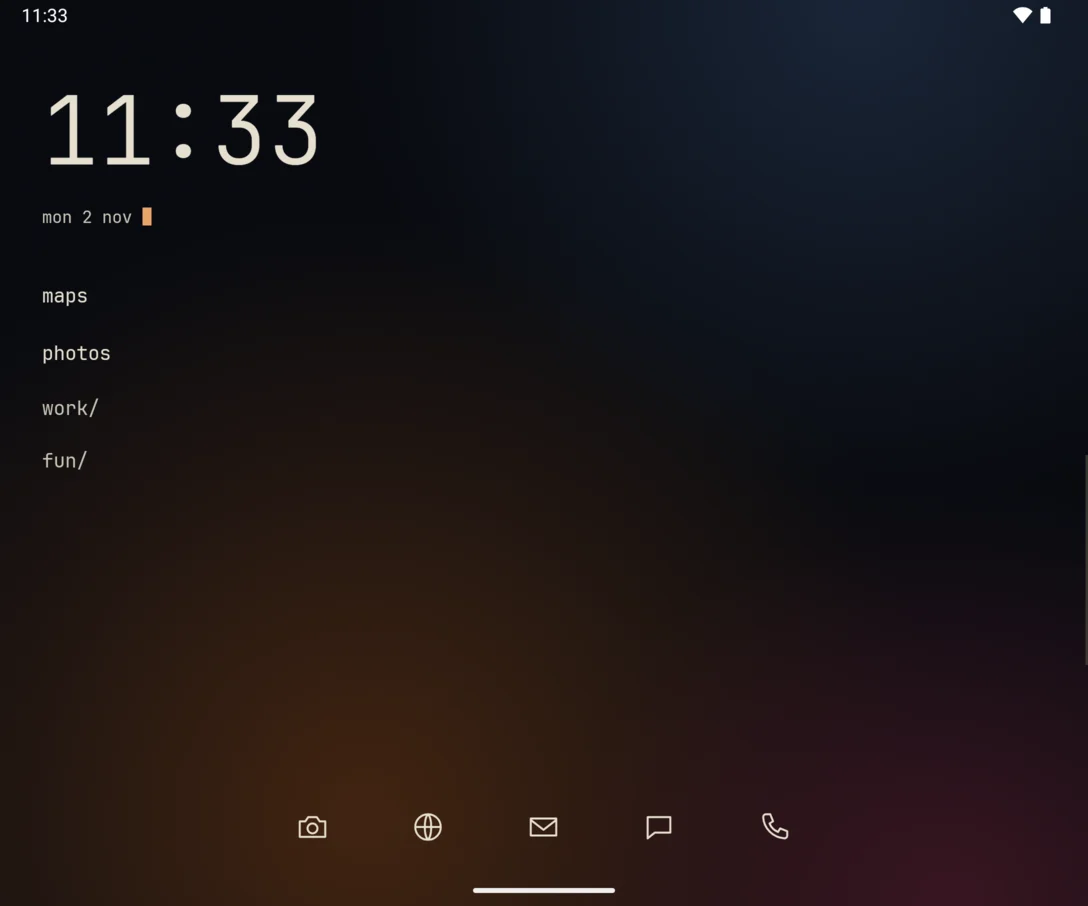
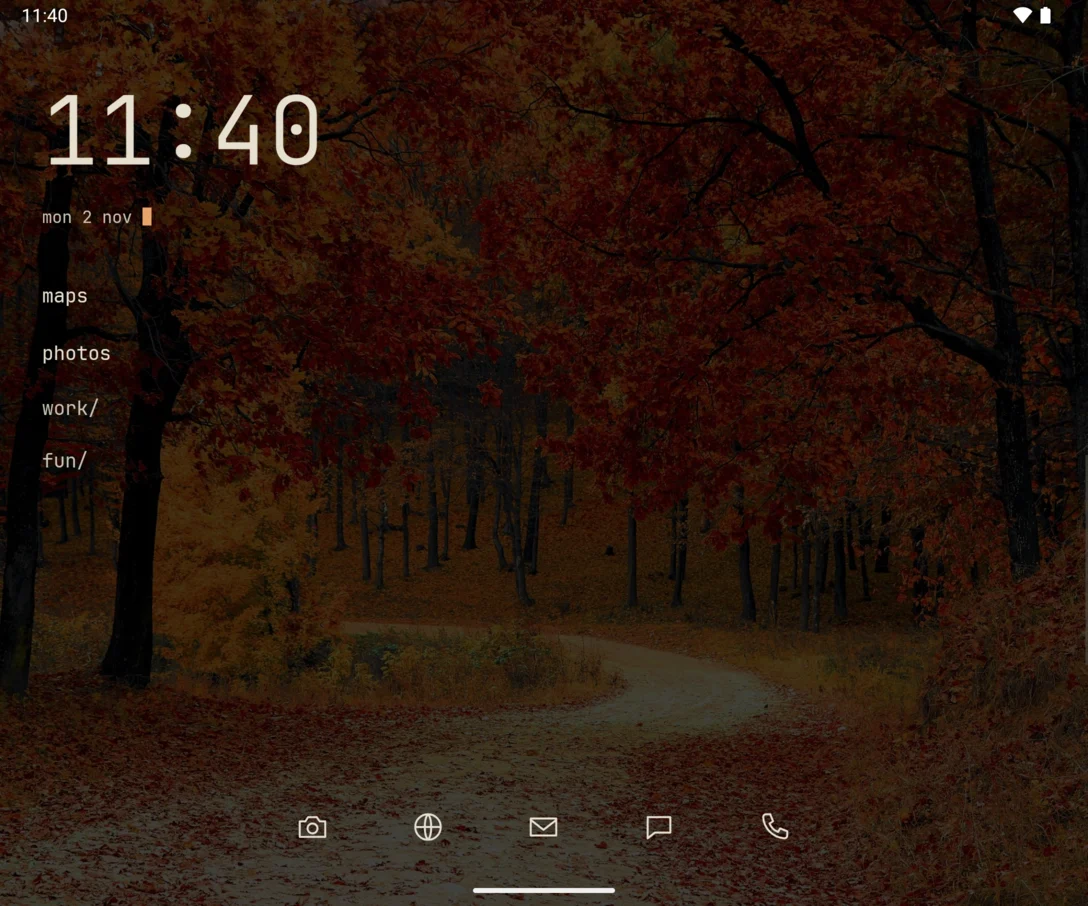
Use an autumn photo in README screenshots
Retake the screenshots with a CC0 autumn forest photo behind crease,
credited in the README.

diff --git a/README.md b/README.md
@@ -17,7 +17,7 @@ Android 11+. No icons, no internet permission, under 1 MB.
   <img src="docs/screenshots/2-inner-centered.webp" alt="Inner screen with home apps centred." width="49%">
 </p>
 
-Screenshots are from a foldable emulator, with a photo background set in edit mode.
+Screenshots are from a foldable emulator, with a photo background set in edit mode. Background photo: [A beautiful road with leaves falling](https://commons.wikimedia.org/wiki/File:A_beautiful_road_with_leaves_falling.jpg) by Valiphotos, CC0.
 
 ## Install
 
